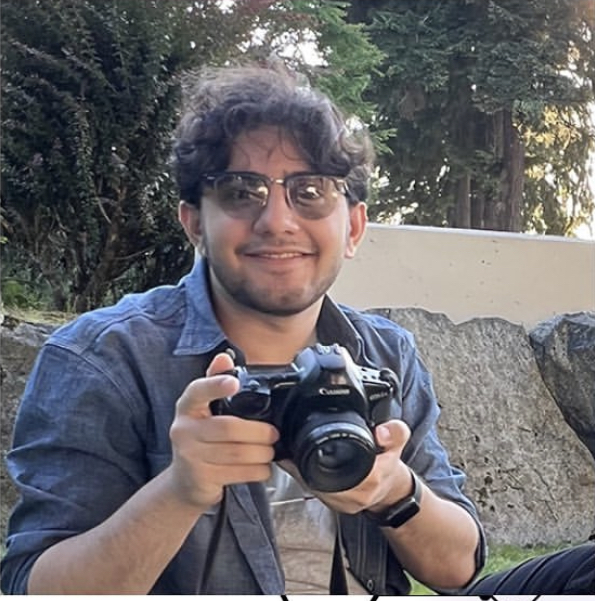
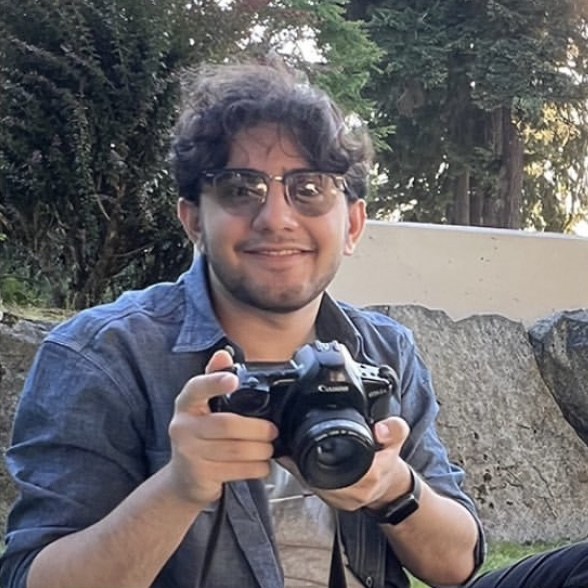
fixed white lines in photos & factored data

diff --git a/src/Components/About.js b/src/Components/About.js
@@ -1,43 +1,28 @@
 import React from "react";
 import "../CSS/About.css";
 import Footer from "./Footer.js";
+import teamMembers from "../Data/teamMembers.json";
 
 const About = () => {
-  const Card = ({ imgSrc, altText, position, name }) => {
+  const Card = ({ member }) => {
     return (
       <div className="card">
         <div className="picture">
-          <img src={imgSrc} alt={altText} />
+          <img src={require(`../Data/img/${member.imgSrc}`)} alt={member.altText} loading="lazy" />
         </div>
         <div className="team-info">
-          <p className="team-members-subtitle">{name}</p>
+          <p className="team-members-subtitle">{member.name}</p>
           <p className="team-title">
-            <strong>{position}</strong>
+            <strong>{member.position}</strong>
           </p>
         </div>
       </div>
     );
   };
 
-  const teamMembers = [
-    { imgSrc: require("../Data/img/shiina.jpg"), altText: "Shiina", position: "President", name: "Shiina" },
-    { imgSrc: require("../Data/img/deeksha.jpg"), altText: "Deeksha", position: "President", name: "Deeksha" },
-    { imgSrc: require("../Data/img/david.jpg"), altText: "David Pham", position: "Mentorship Manager", name: "David Pham" },
-    { imgSrc: require("../Data/img/adityak.jpg"), altText: "Aditya Khowal", position: "External Head", name: "Aditya Khowal" },
-    { imgSrc: require("../Data/img/leah.jpg"), altText: "Leah", position: "External Outreach", name: "Leah" },
-    { imgSrc: require("../Data/img/eric.jpg"), altText: "Eric Xiao", position: "External Outreach", name: "Eric Xiao" },
-    { imgSrc: require("../Data/img/adityaa.jpg"), altText: "Aditya Akhileshwaran", position: "External Outreach", name: "Aditya Akhileshwaran" },
-    { imgSrc: require("../Data/img/pipachu.png"), altText: "Hawa", position: "Advisor", name: "Hawa" },
-    { imgSrc: require("../Data/img/ruhee.jpg"), altText: "Ruhee", position: "Marketing Manager", name: "Ruhee" },
-    { imgSrc: require("../Data/img/trang.jpg"), altText: "Trang Tran", position: "Social Media Manager", name: "Trang Tran" },
-    { imgSrc: require("../Data/img/daniel.jpg"), altText: "Daniel", position: "Opportunities Manager", name: "Daniel" },
-    { imgSrc: require("../Data/img/bhavya.jpg"), altText: "Bhavya", position: "Opportunities Manager", name: "Bhavya" },
-  ];
-
   return (
     <>
       <div className="about">
-        <style>@import url('https://fonts.googleapis.com/css2?family=Assistant&display=swap');</style>
         <div className="about-section">
           <div className="about-message-section">
             <div className="about-title">About</div>
@@ -57,7 +42,7 @@ const About = () => {
             <p className="team-members-subtitle">2023-2024</p>
             <div className="picture-container">
               {teamMembers.map((member) => (
-                <Card key={member.position} imgSrc={member.imgSrc} name={member.name} altText={member.altText} position={member.position} />
+                <Card key={member.name} member={member} />
               ))}
             </div>
           </div>
